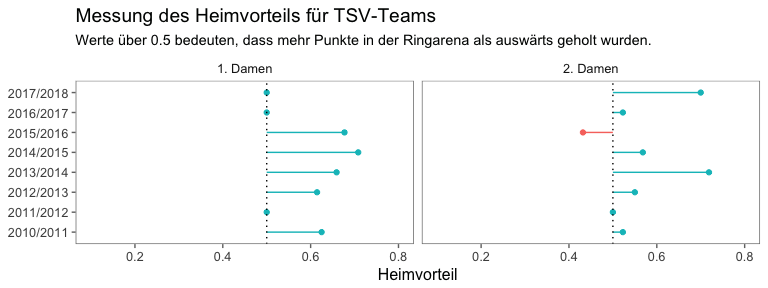
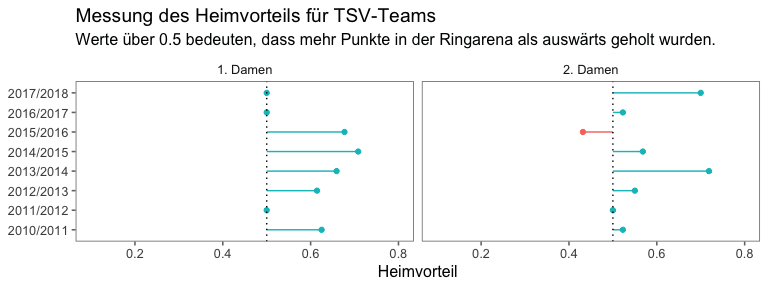
Update script for season 2017/18 and include photo

diff --git a/ringarena.md b/ringarena.md
@@ -2,27 +2,29 @@ Mythos Ringarena
 ================
 Stefan Müller
 
-Die Ringarena, Heimspielstätte der [TSV Bonn rrh.](http://tsv-bonn.de), ist berühmt berüchtigt, sowohl bei den Beueler Handballern als auch bei den Gegnern. Die TSV'ler schätzen die Halle dank des Räumchens, Gegner fürchten den "Schuhkarton" vor allem aufgrund der Enge und des kleinen Spielfelds.
+Die Ringarena, Heimspielstätte der [TSV Bonn rrh.](http://tsv-bonn.de) (meines ehemaligen Heimatvereins), ist berühmt berüchtigt, sowohl bei den Beueler Handballern als auch bei den Gegnern. Die TSV'ler schätzen die Halle unter anderem wegen der Geselligkeit und Kaltgetränke im Räumchen, Auswärtsteams fürchten den "Schuhkarton" aufgrund der Enge und des kleinen Spielfelds.
 
-Liest man Vorberichte der Gegner zu Auswärtsspielen bei der TSV, kommt die Halle an der Ringstraße häufig zur Sprache, eben weil sie so besonders ist. Doch ist die Ringarena tatsächlich ein Vorteil für die Beueler Handballerinnen und Handballer?
+Liest man Vorberichte der Gegner zu Auswärtsspielen bei der TSV, kommt die Halle an der Ringstraße häufig zur Sprache, eben weil sie so besonders ist. Doch birgt die Ringarena tatsächlich ein Vorteil für die Beueler Handballerinnen und Handballer?
 
-Um das herauszufinden (und um meine Kenntnisse mit dem [**rvest**](https://github.com/hadley/rvest) R package zu verbessern, mit dem man Tabellen von Websiten scrapen kann), habe ich alle Saisonspiele aller Seniorenmannschaften, seit der Saison 2010/2011 von [SIS-Handball](http://sis-handball.de) gescraped. Der gesamte Code und die Daten sind [hier verfügbar](https://github.com/stefan-mueller/ringarena). Da die Websites für alle Ligen und Jahre gleich aufgebaut sind, reichen ca. 20 Zeilen Code (und eine Liste mit den Weblinks für jede Liga und Jahr), um einen Datensatz mit allen Spielen aus den Ligen zu erstellen, in denen ein TSV-Seniorenteam vertreten war. Der Datensatz umfasst insgesamt 6420 Spiele.
+![Die Ringarena in Bonn-Beuel](ringarena.jpg)
 
-Mit diesem Datensatz lässt sich nun der "Heimvorteil" berechnen (siehe u.a. [Pollard et al. 2017](https://www.tandfonline.com/doi/abs/10.1080/24748668.2017.1372164)). Grob gesprochen kann der Wert für jedes Team in der Saison zwischen 0 und 1 liegen. Ein Wert von 1 bedeutet, dass alle Punkte daheim eingefahren wurde, eine 0 impliziert, dass ein Team Punkte lediglich auswärts errungen hat. Folglich markieren alle Werte über 0.5 einen Heimvorteil: das Team hat mehr Heim- als Auswärtspunkte gesammelt.
+Um das herauszufinden, habe ich alle Saisonspiele aller Seniorenmannschaften zwischen der Saison 2010/2011 und 2017/2018 von [SIS-Handball](http://sis-handball.de) automatisch gescraped. Der gesamte Code und die Daten sind [hier verfügbar](https://github.com/stefan-mueller/ringarena). Der Datensatz umfasst insgesamt 6420 Spiele.
 
-Schauen wir zunächst, ob es überhaupt einen Heimvorteil gibt. Hierfür plotte ich die Verteilung der Werte aller Teams (aufgesplittet nach TSV-Teams und Gegnern). Jeder Punkt zeigt eine Saison eines Teams. Der Median (roter horizontaler Balken) liegt in beiden Gruppen bei etwa 0.6. Es gibt auf HVM- und Kreisebene eindeutig einen Heimvorteil.
+Mit diesem Datensatz lässt sich nun der "Heimvorteil" berechnen (siehe u.a. [Pollard et al. 2017](https://www.tandfonline.com/doi/abs/10.1080/24748668.2017.1372164) oder ein [Paper von Liam Kneafsey und mir](https://muellerstefan.net/papers/ijpas_kneafsey_mueller.pdf), das bald im *International Journal of Performance Analysis in Sport* veröffentlicht wird). Grob gesprochen kann der Wert für jedes Team in der Saison zwischen 0 und 1 liegen. Ein Wert von 1 bedeutet, dass alle Punkte daheim eingefahren wurde, eine 0 impliziert, dass ein Team Punkte lediglich auswärts errungen hat. Folglich markieren alle Werte über 0.5 einen Heimvorteil: das Team hat mehr Heim- als Auswärtspunkte gesammelt.
+
+Schauen wir zunächst, ob es überhaupt einen Heimvorteil gibt. Hierfür plotte ich die Verteilung der Werte aller Teams (aufgesplittet nach TSV-Teams und Gegnern). Jeder Punkt zeigt eine Saison eines Teams. Der Median (roter horizontaler Balken) liegt in beiden Gruppen bei etwa 0.6. Ein Wert von 0.6 bedeutet, dass ein Team 60 Prozent der Punkte in einer Saison zuhause holt. Es gibt in der Nordrheinliga, der HVM-Ebene und auf Kreisebene eindeutig einen Heimvorteil.
 
 ![](ringarena_files/figure-markdown_github/unnamed-chunk-6-1.png)
 
-Als nächstes schauen wir uns das Ganze pro TSV-Team an. Die kurzen schwarzen Balken auf der x-Achse markieren die Observationen (Werte pro Saison), die Kurve ist eine simple Häufigkeitsverteilung, der lange vertikale Balken markiert den Median. Bei den Herren sind vor allem die Zweit-, Dritt- und Viertvertretung merklich stärker in der Ringarena als in fremden Hallen. Bei der "Ersten" ist der Unterschied deutlich geringer. Die dritte Damenmannschaft wurde übrigens ausgeschlossen, weil sie nicht seit 2010 besteht.
+Als nächstes schauen wir uns das Ganze pro TSV-Team an. Die kurzen schwarzen Balken auf der x-Achse markieren die Observationen (Werte des Heimvorteilsranking pro Saison), die Kurve ist eine Häufigkeitsverteilung, der lange vertikale Balken markiert den Median. Bei den Herren sind vor allem die Zweit-, Dritt- und Viertvertretung merklich stärker in der Ringarena als in fremden Hallen. Bei der "Ersten" ist der Unterschied deutlich geringer.
 
 ![](ringarena_files/figure-markdown_github/unnamed-chunk-9-1.png)
 
-Die zweite Damenmannschaft ist das einzige Team mit einem niedrigeren Medianwert für die Heimvorteilsskala als der Gegner.
+Die zweite Damenmannschaft ist das einzige Team mit einem niedrigeren Medianwert für die Heimvorteilsskala als alle Gegner seit 2010.
 
 ![](ringarena_files/figure-markdown_github/unnamed-chunk-10-1.png)
 
-Der Datensatz erlaubt es, Änderungen im Zeitverlauf anzuschauen. Der folgende Plot zeigt die Anzahl an geworfenen TSV-Toren in Heim-und Auswärtsspielen pro Saison und Team. Die grauen Flächen markieren Konfidenzintervalle, schließlich ist die Anzahl an Toren nicht konstant, sondern variiert innerhalb einer Saison. Der folgende Plot ist sehr interessant. Oben befindet sich die Liga und Abschlussplatzierung. Fast immer liegt die grüne Linie über der roten - es wurden also mehr Tore im Mittelwert in der Ringarena als auswärts erziehlt. Ausnahmen bildet die 2. Herren 2015/16, die Dritte in der jetzigen Saison und die 4. Herren 2010/2011. Einige interessante Beobachtunge. Seit der Saison 2015/16 hat die Anzahl an Toren bei der 1. Herren zugenommen bei der 2. Herren sehen wir einen negativen Trend im Zeitverlauf. Die "Dritte" hat einen klaren positiven Ausreißer im Jahr 2013/14, als die Kreismeisterschaft errungen wurde. Der Trend der Vierten Herren zeigt seit 2015 deutlich nach oben? Verjüngung des Kaders oder x-ter Frühling der Spieler? Außerdem wird die Heimdominzanz der 1. Damen in den vergangenen zwei Spielzeiten sehr deutlich.
+Der Datensatz erlaubt es, Änderungen im Zeitverlauf anzuschauen. Der folgende Plot zeigt die Anzahl an geworfenen TSV-Toren in Heim-und Auswärtsspielen pro Saison und Team. Die grauen Flächen markieren Konfidenzintervalle, schließlich ist die Anzahl an Toren nicht konstant, sondern variiert innerhalb einer Saison. Oben befindet sich die Liga und Abschlussplatzierung. Fast immer liegt die grüne Linie über der roten - es wurden also mehr Tore im Mittelwert in der Ringarena als auswärts erziehlt. Ausnahmen bildet die 2. Herren 2015/16, die Dritte in der vergangenen Saison und die 4. Herren 2010/2011. Einige interessante Beobachtunge. Seit der Saison 2015/16 hat die Anzahl an Toren bei der 1. Herren zugenommen bei der 2. Herren sehen wir einen negativen Trend im Zeitverlauf. Die "Dritte" hat einen klaren positiven Ausreißer im Jahr 2013/14, als die Kreismeisterschaft errungen wurde. Der Trend der Vierten Herren zeigt seit 2015 deutlich nach oben? Verjüngung des Kaders oder x-ter Frühling der Spieler? Außerdem wird die Heimdominanz der 1. Damen in den vergangenen zwei Spielzeiten sehr deutlich.
 
 ![](ringarena_files/figure-markdown_github/unnamed-chunk-11-1.png)
 
@@ -32,9 +34,7 @@ Nun schauen wir auf den Heimvorteil pro Saison und Team. Grüne Balken zeigen, d
 
 ![](ringarena_files/figure-markdown_github/unnamed-chunk-14-1.png)
 
-Abschließend die besten Heimteams des ganzen Datensatzes. Die Daten werden für jedes Team gruppiert und die 10 Beobachtungen mit den höchsten Heimvorteilswerten gefiltert. Alle TSV-Mannschaften (!) befinden sich mindestens einmal unter den Top 10 verglichen mit den Werten der Gegner seit 2010. Der Ruf der Ringarena scheint tatsächlich berechtigt!
-
-Interesse oder Ideen für weitergehende Analysen? Gerne bei mir [melden](http://muellerstefan.net).
+Abschließend ein Blick auf die besten Heimteams des ganzen Datensatzes. Die Daten werden für jedes Team gruppiert und die 10 Beobachtungen mit den höchsten Heimvorteilswerten gefiltert. Alle TSV-Mannschaften (!) befinden sich mindestens einmal unter den Top 10 verglichen mit den Werten der Gegner seit 2010. Der Ruf der Ringarena scheint tatsächlich berechtigt!
 
 ![](ringarena_files/figure-markdown_github/unnamed-chunk-17-1.png)
 
